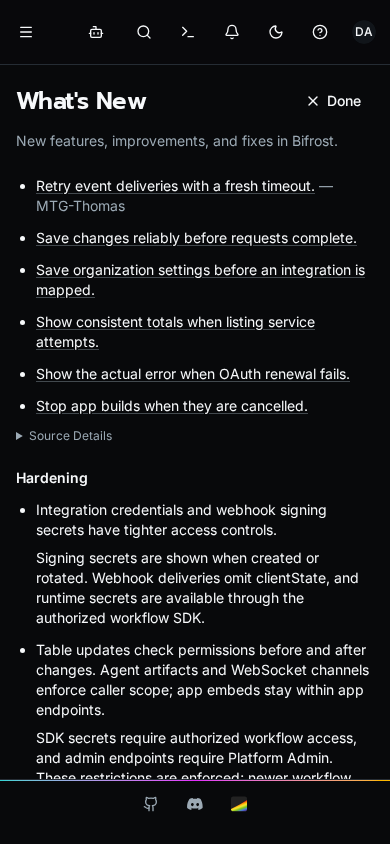
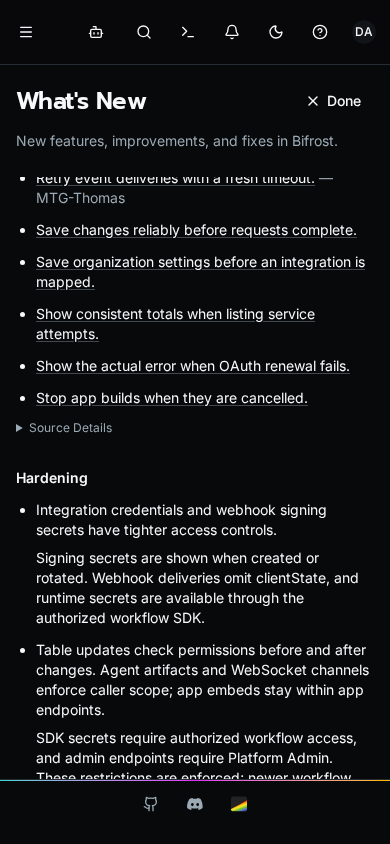
Remove visible update dates and record production readiness gaps

Changed region(s): [[0.0308, 0.1848, 0.9538, 0.5237], [0.0308, 0.3697, 0.0615, 0.4005], [0.0308, 0.3081, 0.0615, 0.3389]]

diff --git a/client/src/components/layout/ProductUpdateContent.tsx b/client/src/components/layout/ProductUpdateContent.tsx
@@ -20,59 +20,33 @@ export function UpdateGroups({
 	missingImage?: boolean;
 	changes?: ProductUpdateOtherChange[];
 }) {
-	const formatter = new Intl.DateTimeFormat(undefined, { dateStyle: "long" });
-	const groups = new Map<string, ProductUpdateEntry[]>();
-	for (const entry of entries
+	const updates = entries
 		.filter((entry) => entry.in_app !== false)
 		.sort(
 			(a, b) => Date.parse(b.published_at) - Date.parse(a.published_at),
-		)) {
-		const date = formatter.format(new Date(entry.published_at));
-		const group = groups.get(date);
-		if (group) group.push(entry);
-		else groups.set(date, [entry]);
-	}
+		);
+	const features = updates.filter(
+		(entry) => entry.type === "New" || entry.type === "Improved",
+	);
 	return (
 		<div className="space-y-8">
-			{groups.size === 0 && (
-				<CorrectionLists entries={[]} changes={changes} />
-			)}
-			{Array.from(groups, ([date, updates], index) => (
-				<section key={date} aria-label={date}>
-					<h2 className="mb-4 text-sm font-medium text-muted-foreground">
-						{date}
-					</h2>
-					{updates.some(
-						(entry) =>
-							entry.type === "New" || entry.type === "Improved",
-					) && (
-						<>
-							<h3 className="mb-4 text-sm font-semibold">
-								New Features and Functionality
-							</h3>
-							<div className="divide-y divide-border">
-								{updates
-									.filter(
-										(entry) =>
-											entry.type === "New" ||
-											entry.type === "Improved",
-									)
-									.map((entry) => (
-										<UpdateEntry
-											key={entry.id}
-											entry={entry}
-											missingImage={missingImage}
-										/>
-									))}
-							</div>
-						</>
-					)}
-					<CorrectionLists
-						entries={updates}
-						changes={index === 0 ? changes : []}
-					/>
+			{features.length > 0 && (
+				<section aria-label="New Features and Functionality">
+					<h3 className="mb-4 text-sm font-semibold">
+						New Features and Functionality
+					</h3>
+					<div className="divide-y divide-border">
+						{features.map((entry) => (
+							<UpdateEntry
+								key={entry.id}
+								entry={entry}
+								missingImage={missingImage}
+							/>
+						))}
+					</div>
 				</section>
-			))}
+			)}
+			<CorrectionLists entries={updates} changes={changes} />
 		</div>
 	);
 }

diff --git a/client/src/components/layout/ProductUpdateContent.test.tsx b/client/src/components/layout/ProductUpdateContent.test.tsx
@@ -37,7 +37,7 @@ describe("shared product update content", () => {
 		expect(screen.queryByText("Action Required")).not.toBeInTheDocument();
 	});
 
-	it("groups updates by their displayed date, newest first, with one date heading per group", () => {
+	it("keeps newest features first without visible date groups", () => {
 		const earlier = {
 			...entry,
 			type: "New" as const,
@@ -56,26 +56,17 @@ describe("shared product update content", () => {
 				entries={[earlier, { ...entry, type: "New" }, sameDay]}
 			/>,
 		);
-		const format = (date: string) =>
-			new Intl.DateTimeFormat(undefined, { dateStyle: "long" }).format(
-				new Date(date),
-			);
 		expect(
-			screen
-				.getAllByRole("heading", { level: 2 })
-				.map((heading) => heading.textContent),
-		).toEqual([format(entry.published_at), format(earlier.published_at)]);
+			screen.queryByRole("heading", { level: 2 }),
+		).not.toBeInTheDocument();
 		const group = screen.getByRole("region", {
-			name: format(entry.published_at),
+			name: "New Features and Functionality",
 		});
 		expect(
 			within(group)
 				.getAllByRole("heading", { level: 4 })
 				.map((heading) => heading.textContent),
-		).toEqual(["Upgrade Notice", "Another Update"]);
-		expect(
-			within(group).queryByRole("heading", { name: "Earlier Update" }),
-		).not.toBeInTheDocument();
+		).toEqual(["Upgrade Notice", "Another Update", "Earlier Update"]);
 	});
 
 	it("keeps features as headlines and corrections in separate bullet lists, excluding release-only notes", () => {

diff --git a/client/e2e/preview/product-updates.admin.spec.ts b/client/e2e/preview/product-updates.admin.spec.ts
@@ -23,7 +23,7 @@ test("admin sees new updates automatically and reopens history from Help", async
 			name: "Release Notes and Discord",
 		}),
 	).toBeVisible();
-	await expect(dialog.getByRole("heading", { name: "October 6, 2026", exact: true })).toHaveCount(1);
+	await expect(dialog.getByRole("heading", { name: "October 6, 2026", exact: true })).toHaveCount(0);
 	const community = dialog.getByRole("navigation", {
 		name: "Bifrost community links",
 	});
@@ -77,7 +77,7 @@ test("admin sees new updates automatically and reopens history from Help", async
 	await expect(
 		history.getByRole("heading", { name: "Release Notes and Discord" }),
 	).toBeVisible();
-	await expect(history.getByRole("heading", { name: "October 6, 2026", exact: true })).toHaveCount(1);
+	await expect(history.getByRole("heading", { name: "October 6, 2026", exact: true })).toHaveCount(0);
 	await expect(history.getByText("Preview Controls", { exact: true })).toHaveCount(0);
 	await expect(history.getByRole("tab")).toHaveCount(0);
 	await expect(

diff --git a/docs/plans/product-updates-progress.md b/docs/plans/product-updates-progress.md
@@ -221,3 +221,11 @@ Removed Action Required from five draft notes: retention, credential handling, d
 Only the CLI/SDK compatibility notice retains the label, scoped to CLI/SDK users. Evidence: `api/shared/version.py` requires 1.4.2 because SDKs through 1.4.1 require the removed execution-response field (and the old role contract). The authoring guide now requires an affected audience, concrete required step, and incompatibility evidence. Editorial changes increment revisions and regenerate the shared bundle and all four saved release previews. Draft approval status and source coverage remain unchanged.
 
 Focused verification: `python3 -m unittest scripts.test_product_updates scripts.test_release_gate -q` (34 passed); `docker exec -w /app bifrost-debug-3fc9b38f-client-1 npm test -- src/components/layout/ProductUpdateContent.test.tsx` (5 passed); coverage command above (no gaps); scoped ESLint on the changed component test and preview spec (passed); `./test.sh client preview` (passed, 9.5 seconds). Browser coverage asserts exactly one Action Required notice and the scoped CLI/SDK audience; screenshots refreshed. No application logic/API contract changes; broader suites were not run.
+
+## Remove Visible Dates and Merge Readiness
+
+Removed visible date headings/groups from modal and history. Features now share one New Features and Functionality section, followed by Bug Fixes and Hardening. Publication dates remain source metadata and retain newest-first ordering. The component test covers ordering across multiple dates without date headings; the live preview asserts the initial date heading is absent.
+
+Merge-readiness audit confirmed that runtime surfaces remain gated by `import.meta.env.DEV` and receipts are local-browser preview storage. This branch does not yet deliver the feature in production images or maintain admin-owned server receipts. Backfill prose remains draft. The release skill separates data preparation from publication and documents UUID-preserving announcements; canonical and Codex mirror match. No PR, merge, release or deployment was performed. Original handoff explicitly reserved database/API wiring for a follow-on production slice; the user has been told this limitation.
+
+Focused verification: four changed-surface component/adapter suites (17 tests passed), scoped ESLint for content/component test and preview spec (passed), and `./test.sh client preview` (passed, 19.3 seconds). Screenshots refreshed without dates. `docker exec -w /app bifrost-debug-3fc9b38f-client-1 npx tsc -b --pretty false` passed. Broader suites were not run.

diff --git a/docs/plans/product-updates-claude-handoff.md b/docs/plans/product-updates-claude-handoff.md
@@ -35,3 +35,5 @@ Features retain individual headlines under New Features and Functionality. Fixed
 Completeness was rechecked against freshly fetched main: it still matches frozen 32aeea16c. Effective Access and retention notes now have actual feature screenshots (revision 4); the older generic Roles illustration was replaced. GitHub preview images are pinned to asset-bearing commit 2ac8231e7. This Docker environment has no Kubernetes connection, so it cannot capture that conditionally available settings panel.
 
 Action Required is now limited to the verified CLI/SDK compatibility break and names that audience. Retention and general hardening/sync notes have no such label; the retention default and Keep forever choice remain explicit. Follow the stricter authoring criteria in `docs/product-updates-authoring.md`, rather than flagging optional configuration or release-review chores.
+
+Latest design removes visible date grouping from both surfaces; dates remain metadata. A merge-readiness audit confirmed production delivery and server-owned show-once receipts are still missing. Do not describe this preview branch as a shipped in-app feature. The user is deciding whether to extend scope to the production slice before merging.
